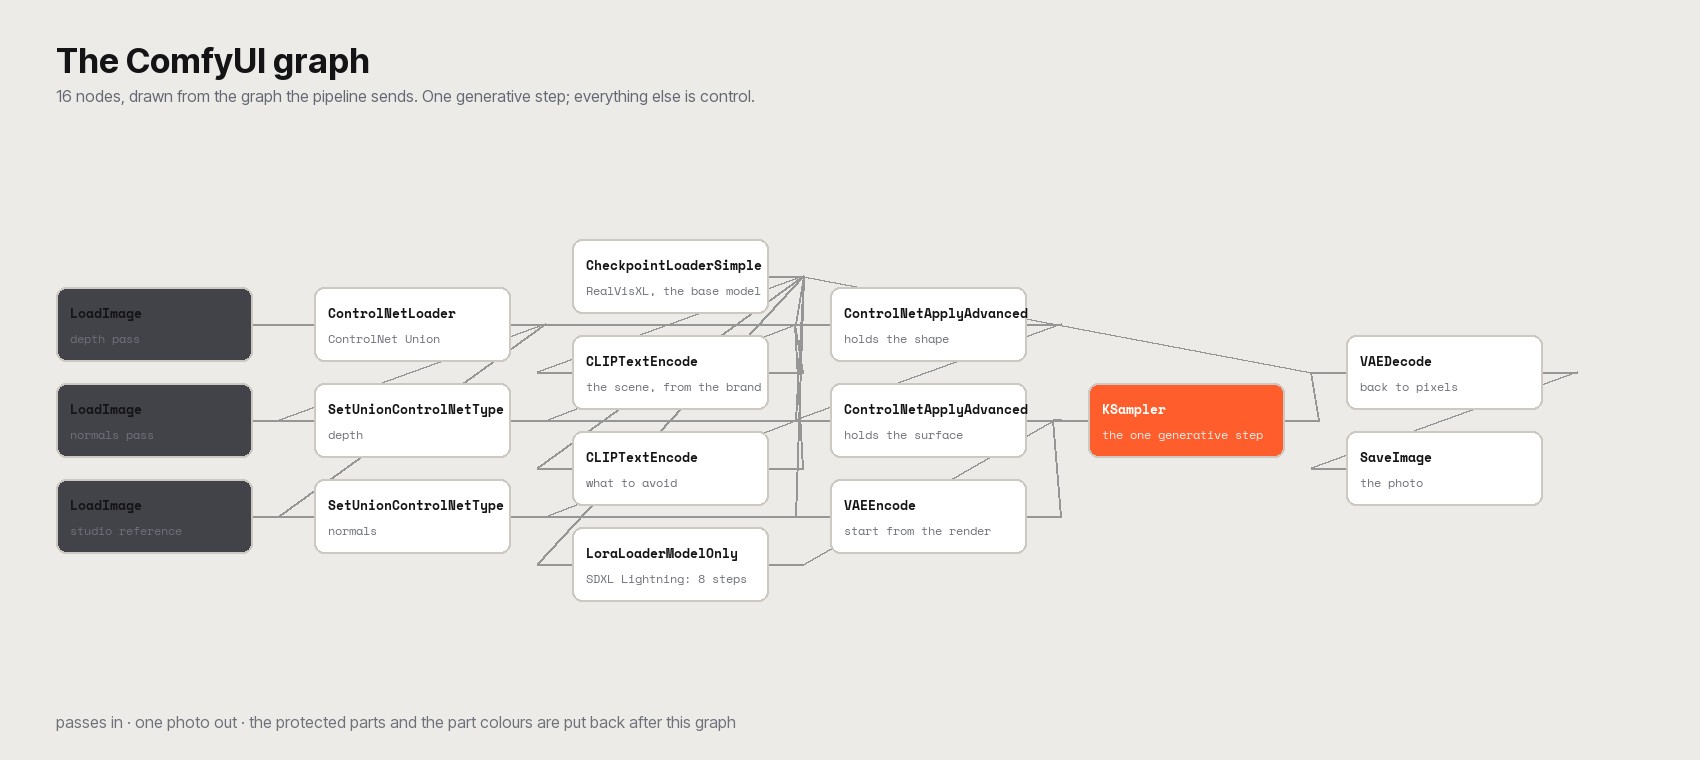
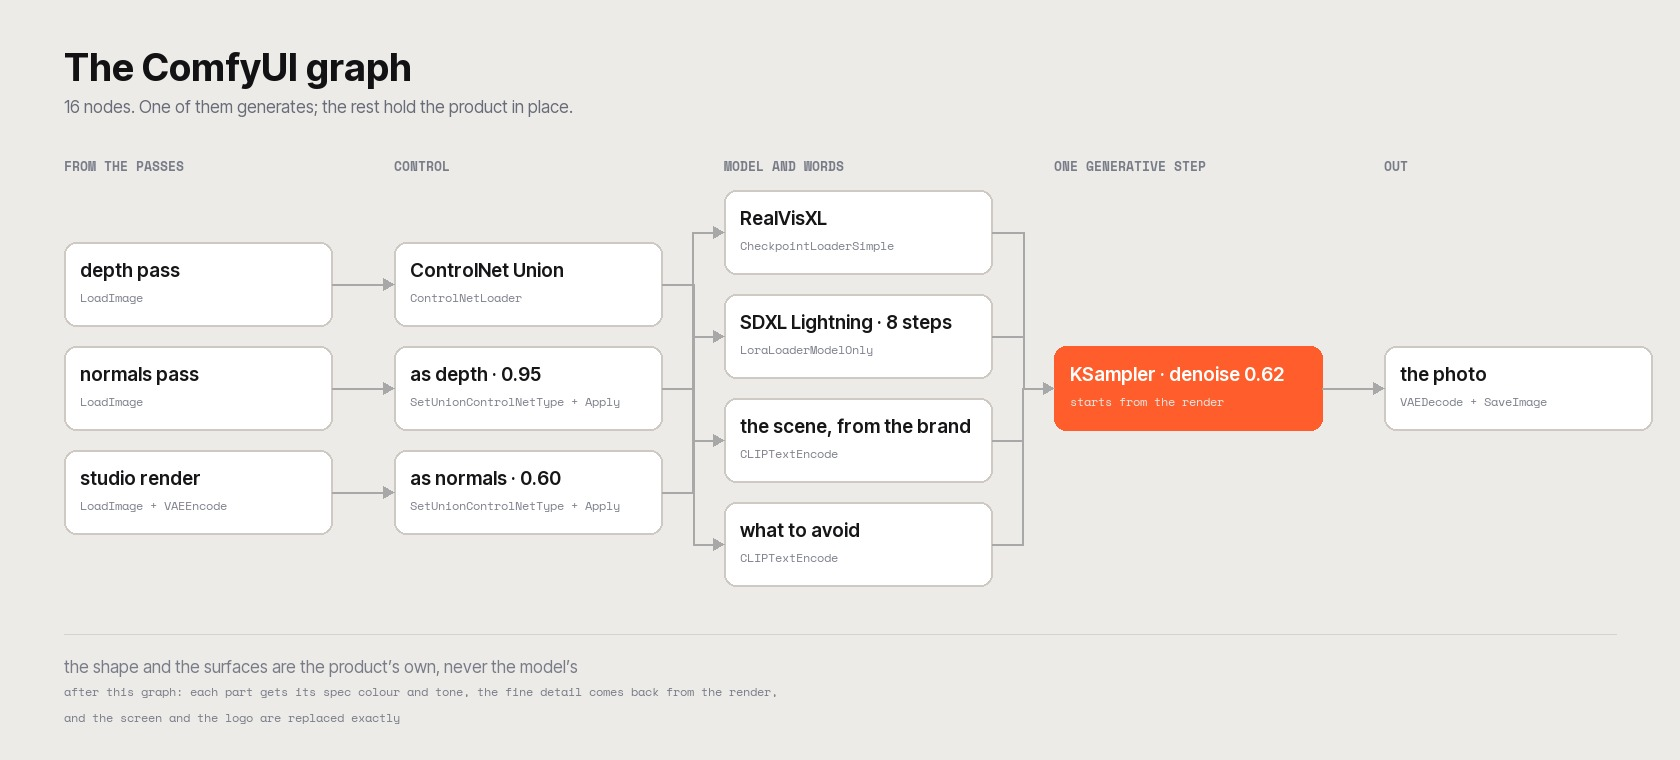
A graph diagram that reads as a flow, and the pieces shown as grids

diff --git a/tools/graph_diagram.py b/tools/graph_diagram.py
@@ -1,7 +1,7 @@
-# Draw the ComfyUI graph the pipeline actually sends, straight from the code that builds it:
+# Draw the ComfyUI graph the pipeline sends, as a diagram a person can read:
 #   py tools/graph_diagram.py docs/img/comfy-graph.jpg
-# The graph is captured by letting generate.py build it with the network calls stubbed out, so the picture can never
-# describe a graph that no longer exists.
+# The node list is captured from generate.py with the network calls stubbed out, so the drawing cannot describe a
+# graph that no longer exists; the grouping and the wording are ours, so it reads as a flow and not as a hairball.
 import os
 import sys
 
@@ -16,75 +16,90 @@ generate.upload = lambda img, name: name
 generate.run = lambda graph: CAPTURED.update(graph) or Image.new('RGB', (8, 8))
 generate.on_grey = lambda path, grey=None: Image.new('RGB', (8, 8))
 generate.Image.open = staticmethod(lambda *a, **k: Image.new('RGB', (8, 8)))
+generate.local_sdxl('runs/x/passes', 'front', 'white', {'prompt': 'studio', 'depth': 0.95, 'depth_end': 0.95,
+                                                        'normal': 0.6, 'denoise': 0.62},
+                    {'name': 'PRODUCT', 'category': 'product'}, 11)
 
-scene = {'prompt': 'studio', 'depth': 0.95, 'depth_end': 0.95, 'normal': 0.6, 'denoise': 0.62}
-spec = {'name': 'PRODUCT', 'category': 'product'}
-generate.local_sdxl('runs/x/passes', 'front', 'white', scene, spec, 11)
+# the graph, grouped the way it actually works: what comes in, what holds it, what makes the picture, what comes out
+GROUPS = [
+    ('From the passes', '#424249', [
+        ('depth pass', 'LoadImage'), ('normals pass', 'LoadImage'), ('studio render', 'LoadImage + VAEEncode')]),
+    ('Control', '#7B8794', [
+        ('ControlNet Union', 'ControlNetLoader'), ('as depth · 0.95', 'SetUnionControlNetType + Apply'),
+        ('as normals · 0.60', 'SetUnionControlNetType + Apply')]),
+    ('Model and words', '#7B8794', [
+        ('RealVisXL', 'CheckpointLoaderSimple'), ('SDXL Lightning · 8 steps', 'LoraLoaderModelOnly'),
+        ('the scene, from the brand', 'CLIPTextEncode'), ('what to avoid', 'CLIPTextEncode')]),
+    ('One generative step', '#FF5E2C', [
+        ('KSampler · denoise 0.62', 'starts from the render')]),
+    ('Out', '#424249', [('the photo', 'VAEDecode + SaveImage')]),
+]
+NOTES = [
+    'the shape and the surfaces are the product’s own, never the model’s',
+    'after this graph: each part gets its spec colour and tone, the fine detail comes back from the render,',
+    'and the screen and the logo are replaced exactly',
+]
 
-LABELS = {
-    'ckpt': ('CheckpointLoaderSimple', 'RealVisXL, the base model'),
-    'model': ('LoraLoaderModelOnly', 'SDXL Lightning: 8 steps'),
-    'pos': ('CLIPTextEncode', 'the scene, from the brand'),
-    'neg': ('CLIPTextEncode', 'what to avoid'),
-    'cn': ('ControlNetLoader', 'ControlNet Union'),
-    'cn_depth': ('SetUnionControlNetType', 'depth'),
-    'cn_normal': ('SetUnionControlNetType', 'normals'),
-    'img_depth': ('LoadImage', 'depth pass'),
-    'img_normal': ('LoadImage', 'normals pass'),
-    'img_start': ('LoadImage', 'studio reference'),
-    'apply_depth': ('ControlNetApplyAdvanced', 'holds the shape'),
-    'apply_normal': ('ControlNetApplyAdvanced', 'holds the surface'),
-    'latent': ('VAEEncode', 'start from the render'),
-    'sample': ('KSampler', 'the one generative step'),
-    'decode': ('VAEDecode', 'back to pixels'),
-    'save': ('SaveImage', 'the photo'),
-}
-COLUMNS = [['img_depth', 'img_normal', 'img_start'], ['cn', 'cn_depth', 'cn_normal'], ['ckpt', 'pos', 'neg', 'model'],
-           ['apply_depth', 'apply_normal', 'latent'], ['sample'], ['decode', 'save']]
-ACCENT = {'sample': (255, 94, 44), 'img_depth': (66, 66, 73), 'img_normal': (66, 66, 73), 'img_start': (66, 66, 73)}
-
-W, H = 1700, 760
-PAD, BOX_W, BOX_H, GAP = 56, 196, 74, 22
+W, H = 1680, 760
+PAD = 64
+COL_W, ROW_H, ROW_GAP = 268, 84, 20
 img = Image.new('RGB', (W, H), (237, 235, 232))
 d = ImageDraw.Draw(img)
 fonts = os.path.join(ROOT, 'brands', 'meridian', 'fonts')
-title = ImageFont.truetype(os.path.join(fonts, 'InterTight.ttf'), 34)
-title.set_variation_by_name('Bold')
-name_f = ImageFont.truetype(os.path.join(fonts, 'SpaceMono-Bold.ttf'), 13)
-note_f = ImageFont.truetype(os.path.join(fonts, 'SpaceMono-Regular.ttf'), 12)
-small = ImageFont.truetype(os.path.join(fonts, 'InterTight.ttf'), 16)
 
-d.text((PAD, 40), 'The ComfyUI graph', font=title, fill=(20, 20, 22))
-d.text((PAD, 86), f'{len(CAPTURED)} nodes, drawn from the graph the pipeline sends. One generative step; everything else is control.',
-       font=small, fill=(100, 104, 116))
 
-pos = {}
-for c, column in enumerate(COLUMNS):
-    x = PAD + c * (BOX_W + 62)
-    total = len(column) * BOX_H + (len(column) - 1) * GAP
-    y0 = 165 + (H - 250 - total) / 2
-    for r, key in enumerate(column):
-        pos[key] = (x, y0 + r * (BOX_H + GAP))
+def inter(size, weight='Regular'):
+    f = ImageFont.truetype(os.path.join(fonts, 'InterTight.ttf'), size)
+    f.set_variation_by_name(weight)
+    return f
 
-for key, node in CAPTURED.items():
-    for value in node['inputs'].values():
-        if isinstance(value, list) and value and value[0] in pos and key in pos:
-            x0, y0 = pos[value[0]]
-            x1, y1 = pos[key]
-            d.line([(x0 + BOX_W, y0 + BOX_H / 2), (x0 + BOX_W + 35, y0 + BOX_H / 2),
-                    (x1 - 35, y1 + BOX_H / 2), (x1, y1 + BOX_H / 2)], fill=(150, 150, 150), width=2)
 
-for key, (x, y) in pos.items():
-    name, note = LABELS.get(key, (CAPTURED[key]['class_type'], ''))
-    colour = ACCENT.get(key, (255, 255, 255))
-    ink = (255, 255, 255) if key == 'sample' else (20, 20, 22)
-    d.rounded_rectangle([x, y, x + BOX_W, y + BOX_H], radius=10, fill=colour, outline=(205, 200, 193), width=2)
-    d.text((x + 14, y + 16), name[:24], font=name_f, fill=ink)
-    d.text((x + 14, y + 42), note[:28], font=note_f, fill=(235, 235, 235) if key == 'sample' else (110, 112, 122))
+mono = lambda size, bold=False: ImageFont.truetype(os.path.join(fonts, f'SpaceMono-{"Bold" if bold else "Regular"}.ttf'), size)
+title, lead, group_f, node_f, note_f = inter(38, 'Bold'), inter(17), mono(13, True), inter(19, 'SemiBold'), mono(12)
 
-d.text((PAD, H - 48), 'passes in · one photo out · the protected parts and the part colours are put back after this graph',
-       font=small, fill=(110, 112, 122))
+d.text((PAD, 44), 'The ComfyUI graph', font=title, fill=(18, 18, 20))
+d.text((PAD, 96), f'{len(CAPTURED)} nodes. One of them generates; the rest hold the product in place.',
+       font=lead, fill=(104, 108, 120))
+
+# lay the groups out left to right, each as a labelled column
+top = 190
+columns = []
+for i, (name, colour, rows) in enumerate(GROUPS):
+    x = PAD + i * (COL_W + 62)
+    height = len(rows) * ROW_H + (len(rows) - 1) * ROW_GAP
+    y = top + (4 * ROW_H + 3 * ROW_GAP - height) / 2
+    d.text((x, top - 34), name.upper(), font=group_f, fill=(120, 124, 136))
+    boxes = []
+    for r, (label, sub) in enumerate(rows):
+        by = y + r * (ROW_H + ROW_GAP)
+        accent = colour == '#FF5E2C'
+        fill = (255, 94, 44) if accent else (255, 255, 255)
+        ink = (255, 255, 255) if accent else (22, 22, 24)
+        d.rounded_rectangle([x, by, x + COL_W, by + ROW_H], radius=12, fill=fill,
+                            outline=(255, 94, 44) if accent else (206, 201, 194), width=2)
+        d.text((x + 16, by + 16), label, font=node_f, fill=ink)
+        d.text((x + 16, by + 46), sub[:38], font=note_f, fill=(232, 232, 232) if accent else (126, 129, 140))
+        boxes.append((x, by, x + COL_W, by + ROW_H))
+    columns.append(boxes)
+
+# arrows: every box of a column feeds the column on its right, drawn as elbows so nothing crosses
+for i in range(len(columns) - 1):
+    right = columns[i + 1]
+    for (x0, y0, x1, y1) in columns[i]:
+        for (rx0, ry0, rx1, ry1) in right:
+            if len(right) > 1 and len(columns[i]) == len(right) and columns[i].index((x0, y0, x1, y1)) != right.index((rx0, ry0, rx1, ry1)):
+                continue  # one to one when the columns match, otherwise fan out
+            mid = (x1 + rx0) / 2
+            cy0, cy1 = (y0 + y1) / 2, (ry0 + ry1) / 2
+            d.line([(x1, cy0), (mid, cy0), (mid, cy1), (rx0 - 10, cy1)], fill=(168, 168, 168), width=2)
+            d.polygon([(rx0, cy1), (rx0 - 11, cy1 - 6), (rx0 - 11, cy1 + 6)], fill=(168, 168, 168))
+
+y = H - 104
+for i, line in enumerate(NOTES):
+    d.text((PAD, y + i * 26), line, font=inter(17) if i == 0 else note_f, fill=(120, 124, 136))
+d.line([(PAD, y - 22), (W - PAD, y - 22)], fill=(214, 210, 203), width=1)
+
 out = sys.argv[1] if len(sys.argv) > 1 else os.path.join('docs', 'img', 'comfy-graph.jpg')
 os.makedirs(os.path.dirname(os.path.join(ROOT, out)), exist_ok=True)
-img.save(os.path.join(ROOT, out), quality=90)
+img.save(os.path.join(ROOT, out), quality=92)
 print(out, len(CAPTURED), 'nodes')
